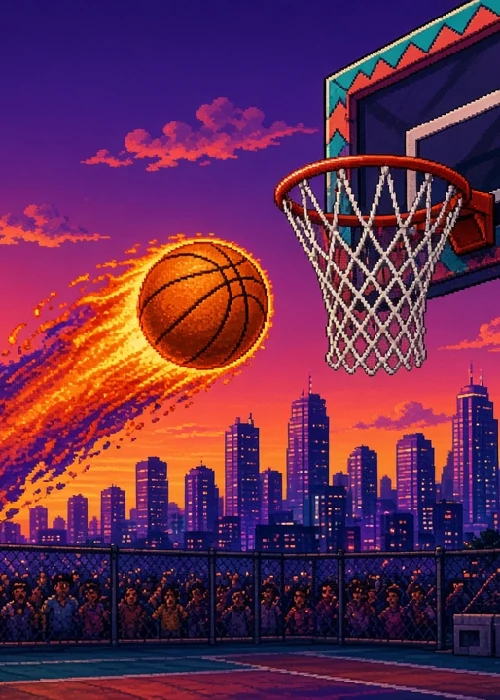
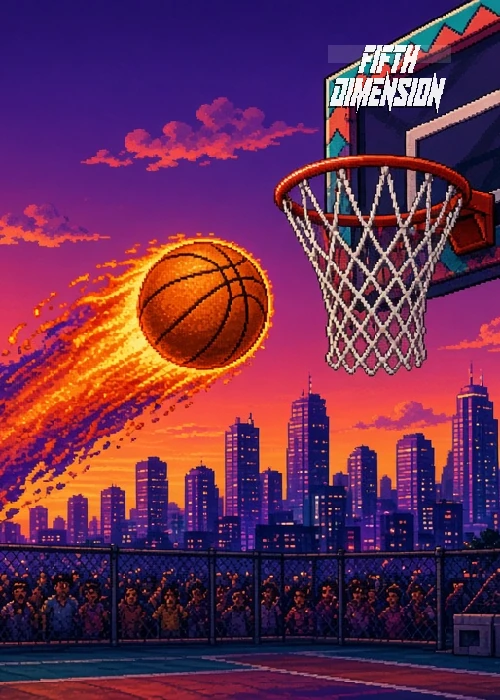
feat(arcade): polish Court Vision plate, backboard wordmark, pixel sprites
Scale4x court plate with procedural floor; flood-cut FIFTH/DIMENSION
wordmark on backboard glass (~75% width, skew + sheen) and Court Vision
box art; pixel ball sheet + net/fire particles; larger title slam logo
without FLOW STATE on the title screen.

Changed region(s): [[0.63, 0.06, 0.9, 0.18]]

diff --git a/src/arcade/courtVisionPhaser/createGame.ts b/src/arcade/courtVisionPhaser/createGame.ts
@@ -39,7 +39,7 @@ export function createCourtVisionGame(
   mode: CvMode,
 ): Phaser.Game {
   class CourtScene extends Phaser.Scene {
-    ball!: Phaser.GameObjects.Image
+    ball!: Phaser.GameObjects.Sprite
     net!: Phaser.GameObjects.Sprite
     aimGraphics!: Phaser.GameObjects.Graphics
     fireEmitter!: Phaser.GameObjects.Particles.ParticleEmitter
@@ -75,9 +75,13 @@ export function createCourtVisionGame(
     preload() {
       const base = import.meta.env.BASE_URL
       this.load.image('court', `${base}art/court-bg.webp`)
-      this.load.image('ball', `${base}art/ball.png`)
+      this.load.spritesheet('ball', `${base}art/ball-sheet.png`, {
+        frameWidth: 48,
+        frameHeight: 48,
+      })
       this.load.image('fire', `${base}art/fire-particle.png`)
-      for (let i = 0; i < 5; i++) {
+      this.load.image('firePurple', `${base}art/fire-particle-purple.png`)
+      for (let i = 0; i < 7; i++) {
         this.load.image(`net${i}`, `${base}art/net-${i}.png`)
       }
     }
@@ -103,43 +107,51 @@ export function createCourtVisionGame(
       this.hoopY = H * COURT_BG.hoopY
       this.hoopRoot = this.add.container(this.hoopX, this.hoopY).setDepth(5)
 
-      // Soft rim highlight so the ball reads through the painted hoop
-      const rimGlow = this.add
-        .circle(0, 0, 30)
-        .setStrokeStyle(3, 0xff8c28, 0.55)
-        .setFillStyle(0x000000, 0)
-      this.hoopRoot.add(rimGlow)
-
+      // Pixel net overlay (idle hidden — painted net on plate; animates on make)
       if (this.textures.exists('net0')) {
-        const frames = [0, 1, 2, 3, 4, 3, 2, 1].map((i) => ({ key: `net${i}` }))
+        const frames = [0, 1, 2, 3, 4, 5, 6, 4, 2, 1].map((i) => ({
+          key: `net${i}`,
+        }))
         this.anims.create({
           key: 'net-swish',
           frames,
-          frameRate: 14,
-          repeat: 1,
+          frameRate: 16,
+          repeat: 0,
         })
-        // Sit just under the painted rim
-        this.net = this.add.sprite(0, 22, 'net0').setScale(1.05).setAlpha(0)
+        this.net = this.add.sprite(0, 22, 'net0').setScale(1.1).setAlpha(0)
+        this.net.texture.setFilter(Phaser.Textures.FilterMode.NEAREST)
         this.hoopRoot.add(this.net)
       }
 
       this.aimGraphics = this.add.graphics().setDepth(8)
 
+      if (!this.anims.exists('ball-spin')) {
+        this.anims.create({
+          key: 'ball-spin',
+          frames: this.anims.generateFrameNumbers('ball', { start: 0, end: 7 }),
+          frameRate: 14,
+          repeat: -1,
+        })
+      }
+
       this.ball = this.add
-        .image(this.ballHome.x, this.ballHome.y, 'ball')
-        .setDisplaySize(56, 56)
+        .sprite(this.ballHome.x, this.ballHome.y, 'ball', 0)
+        .setDisplaySize(52, 52)
         .setDepth(10)
         .setInteractive({ useHandCursor: true })
       this.ball.texture.setFilter(Phaser.Textures.FilterMode.NEAREST)
 
+      // Chunky orange/purple fire for streak heat
       this.fireEmitter = this.add.particles(0, 0, 'fire', {
-        lifespan: 420,
-        speed: { min: 20, max: 60 },
-        scale: { start: 0.55, end: 0 },
-        alpha: { start: 0.85, end: 0 },
-        frequency: 40,
+        lifespan: { min: 280, max: 520 },
+        speed: { min: 30, max: 90 },
+        scale: { start: 0.9, end: 0 },
+        alpha: { start: 0.95, end: 0 },
+        frequency: 28,
+        gravityY: -40,
         blendMode: 'ADD',
         emitting: false,
+        tint: [0xff8c28, 0xff5a3c, 0xffc83c, 0x482078],
       })
       this.fireEmitter.setDepth(9)
 
@@ -226,6 +238,7 @@ export function createCourtVisionGame(
         perfect,
         power,
       }
+      this.ball.play('ball-spin')
       if (this.streak >= 3) this.fireEmitter.startFollow(this.ball)
     }
 
@@ -274,7 +287,7 @@ export function createCourtVisionGame(
         Phaser.Math.Linear(this.flight.y0, this.flight.y1, u) -
         Math.sin(Math.PI * u) * this.flight.peak
       this.ball.setPosition(x, y)
-      this.ball.rotation += delta * 0.012 * this.flight.power
+      if (!this.ball.anims.isPlaying) this.ball.play('ball-spin')
 
       if (this.streak >= 3) this.fireEmitter.emitting = true
 
@@ -390,10 +403,12 @@ export function createCourtVisionGame(
     }
 
     resetBall() {
+      this.ball.anims.stop()
+      this.ball.setFrame(0)
       this.ball.setPosition(this.ballHome.x, this.ballHome.y)
       this.ball.setAlpha(1)
       this.ball.setScale(1)
-      this.ball.setDisplaySize(56, 56)
+      this.ball.setDisplaySize(52, 52)
       this.ball.rotation = 0
     }
 

diff --git a/src/arcade/lobby/lobby.css b/src/arcade/lobby/lobby.css
@@ -51,8 +51,8 @@
   display: flex;
   flex-direction: column;
   align-items: center;
-  justify-content: flex-end;
-  padding: 0 clamp(0.75rem, 4vw, 1.25rem) 2.25rem;
+  justify-content: flex-start;
+  padding: clamp(12%, 16vh, 20%) clamp(0.35rem, 2.5vw, 0.85rem) 2rem;
   cursor: pointer;
   border: 0;
   background: transparent;
@@ -163,15 +163,16 @@
   display: flex;
   flex-direction: column;
   align-items: center;
-  width: min(100%, 430px);
-  margin-bottom: 1.1rem;
-  animation: ffa-logo-in 0.65s ease-out 1.45s both;
+  width: min(92%, 440px);
+  margin-bottom: 0.85rem;
+  /* slam-in after sting */
+  animation: ffa-logo-slam 0.55s cubic-bezier(0.2, 1.4, 0.4, 1) 1.4s both;
 }
 
 .ffa-title__emblem {
-  width: clamp(96px, 28vw, 148px);
+  width: clamp(110px, 32vw, 168px);
   height: auto;
-  margin-bottom: 0.35rem;
+  margin-bottom: 0.25rem;
   filter: drop-shadow(0 4px 10px rgba(0, 0, 0, 0.5));
   image-rendering: pixelated;
 }
@@ -182,8 +183,8 @@
   width: 100%;
   font-family: Bungee, Impact, sans-serif;
   font-weight: 400;
-  font-size: clamp(1.55rem, 8.4vw, 2.35rem);
-  line-height: 0.92;
+  font-size: clamp(2.05rem, 11.5vw, 3.1rem);
+  line-height: 0.9;
   letter-spacing: 0.02em;
   text-transform: uppercase;
   transform: skewX(-4deg);
@@ -246,7 +247,7 @@
 .ffa-title__cta {
   position: relative;
   z-index: 3;
-  margin: 1.35rem 0 0;
+  margin: auto 0 0;
   min-height: 1.4em;
   font-family: Bungee, sans-serif;
   font-size: clamp(0.78rem, 3.4vw, 0.95rem);

diff --git a/src/arcade/courtVisionPhaser/bgLayout.ts b/src/arcade/courtVisionPhaser/bgLayout.ts
@@ -1,7 +1,10 @@
-/** Layout fractions for gen-court-bg portrait crop (hoop-centered). */
+/** Layout fractions for court-bg (scale4x + procedural floor + backboard wordmark). */
 export const COURT_BG = {
-  hoopX: 0.5000,
-  hoopY: 0.2903,
-  backboardTop: 0.1250,
-  backboardBottom: 0.3056,
+  hoopX: 0.5551,
+  hoopY: 0.2897,
+  backboardTop: 0.1973,
+  backboardBottom: 0.2944,
+  floorSplit: 0.5000,
+  wordmarkX: 0.5128,
+  wordmarkY: 0.2230,
 } as const

diff --git a/src/pages/LobbyPage.tsx b/src/pages/LobbyPage.tsx
@@ -173,7 +173,6 @@ export default function LobbyPage() {
             </div>
 
             <p className="ffa-title__cta">▶▶ Tap to Start ◀◀</p>
-            <p className="ffa-title__whisper">{COPY.FLOW_STATE}</p>
             <img
               className="ffa-title__wordmark"
               src={`${BASE}art/wordmark-280.webp`}
